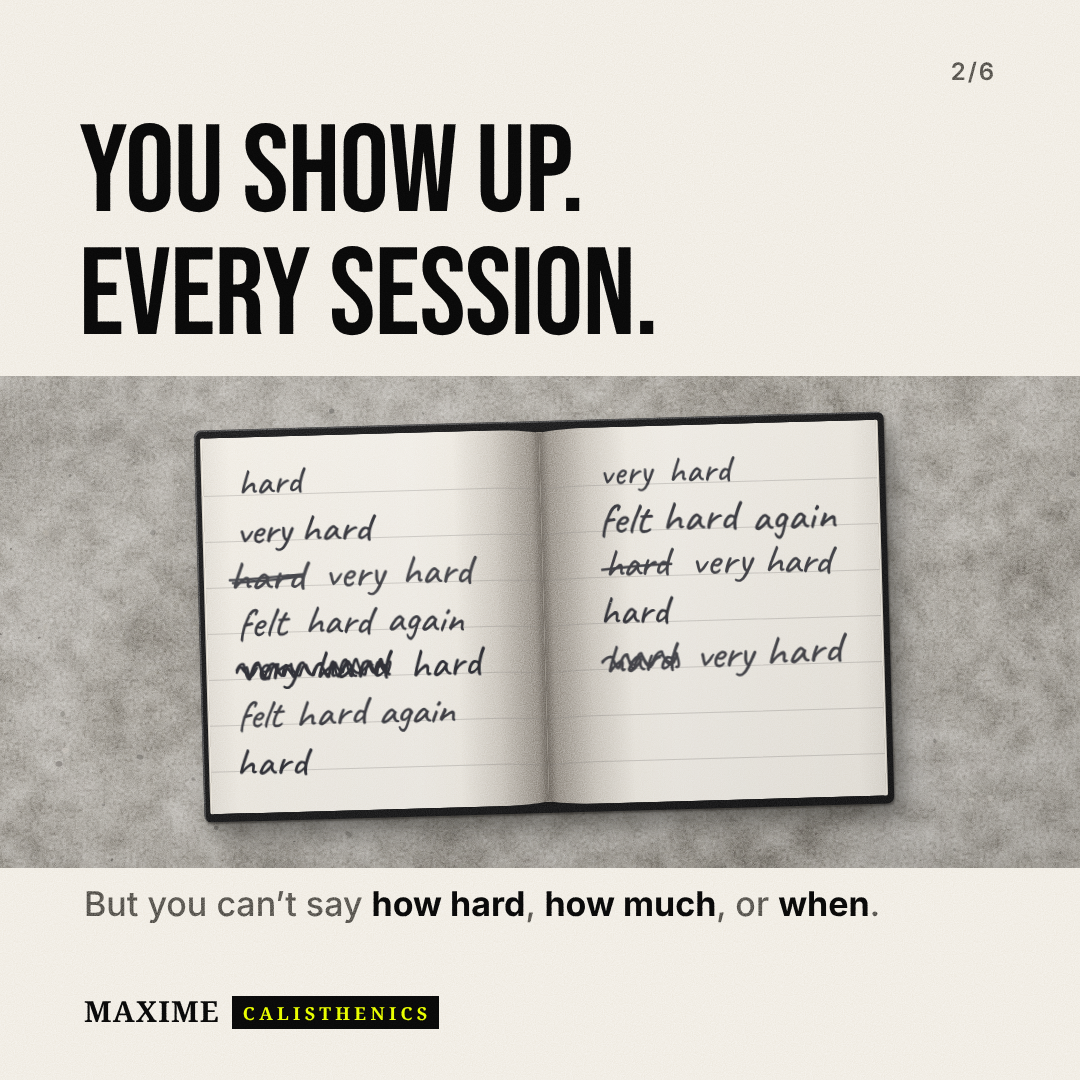
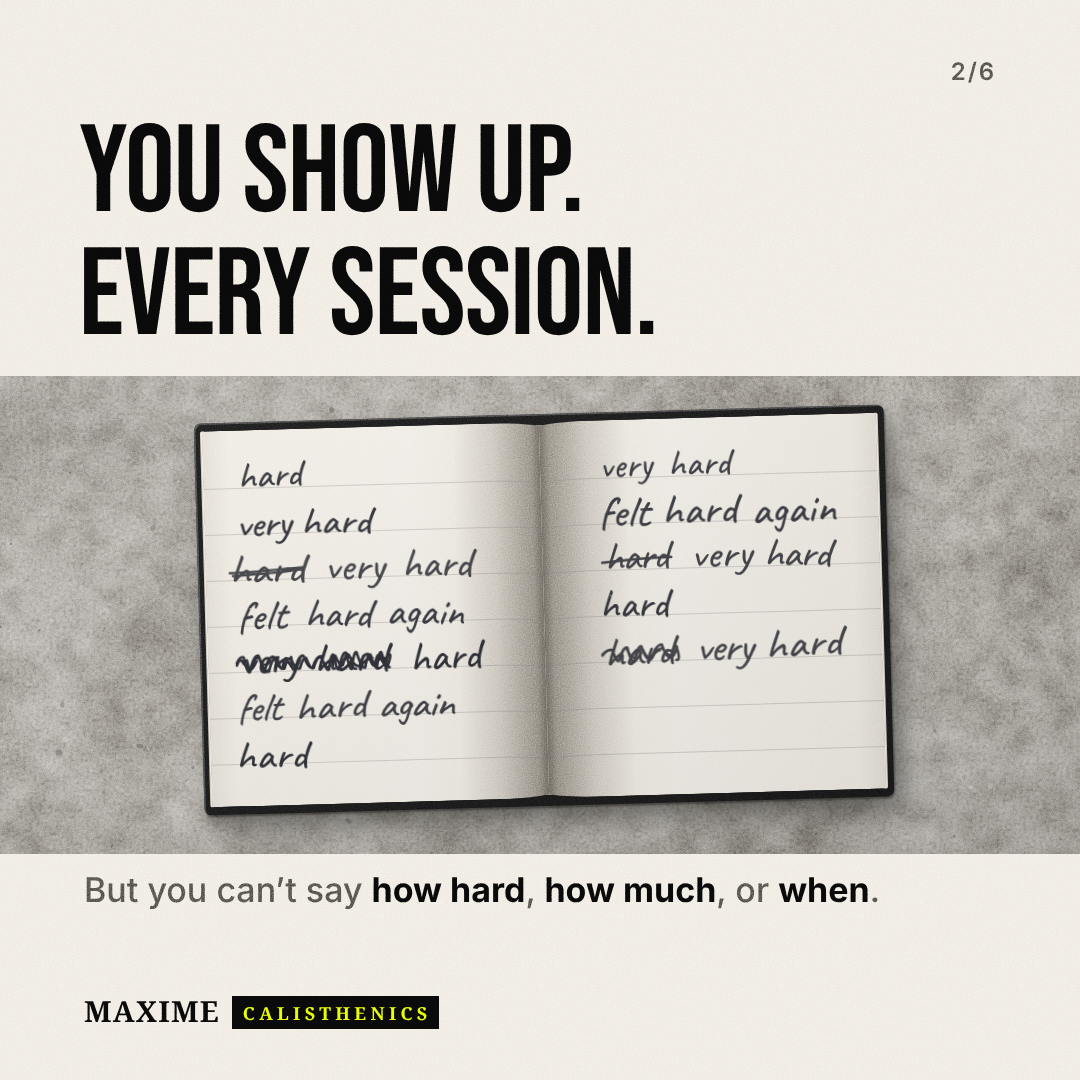
Carousel C: offer and series review fixes, deck C ad copy
Card 6: the struck 150$ is left out until its basis is confirmed (it read as a
former price that nothing in the repo supports); 59.99$ is the hero at 110 px;
the fan overlaps behind Volume without hiding the outer titles; larger checks;
FINALLY gets air before its tab; even spacing down to the wordmark.
Series: card 2's band now ends where card 3's does; card 5's ghost cover fades at
its inner edge instead of drawing a panel line; the unused Mark device is gone.
copy.md: accent devices as actually used, the pricing and third-line questions,
and primary text, card titles and link for deck C.

Claude-Session: https://claude.ai/code/session_01Nneob7TcmMdZxcPFgKJ9Kt

Changed region(s): [[0.0, 0.3667, 1.0, 0.8556], [0.55, 0.4278, 0.7944, 0.6417]]

diff --git a/motion-ad/video/src/carousel/Editorial.tsx b/motion-ad/video/src/carousel/Editorial.tsx
@@ -40,15 +40,6 @@ const small = (size = 28, color = E.ink, weight = 500): React.CSSProperties => (
   whiteSpace: 'nowrap',
 });
 
-// The single accent: a yellow marker stripe sitting behind the lower half of a word.
-// Acid yellow on bone has no contrast as type, so it is only ever used as a mark.
-const Mark: React.FC<{children: React.ReactNode}> = ({children}) => (
-  <span style={{position: 'relative', display: 'inline-block'}}>
-    <span style={{position: 'absolute', left: -6, right: -6, bottom: '0.02em', height: '0.36em', background: E.acid}} />
-    <span style={{position: 'relative'}}>{children}</span>
-  </span>
-);
-
 // Film grain over the whole card, so type, books, photo and ground share one print
 // texture. Mid-grey noise in overlay mode lightens as much as it darkens, so the page
 // still averages #F2EEE6.
@@ -563,7 +554,7 @@ const Notebook: React.FC<{cx: number; cy: number; rot: number}> = ({cx, cy, rot}
   </div>
 );
 
-const BAND = {y: 376, h: 492};
+const BAND = {y: 376, h: 478}; // same band as card 3's split photo
 const Mirror: React.FC<P> = (p) => (
   <Card
     {...p}
@@ -746,7 +737,7 @@ const Questions: React.FC<P> = (p) => {
 // 5 — Buyer voice (12 + 4 words, the brief's own template): the first 12 words of
 // Ilian's 5-star review, exactly as written and unbroken, set in phrases between
 // oversized acid quotation marks anchored to the type. The Intensity cover ghosts in at
-// 8% behind, a plain rectangle cut by the right edge, its lettering kept off the card.
+// 8% behind, cut by the right edge, its inner edge faded, its lettering kept off the card.
 // No stars, no avatar.
 const QUOTE = ['THESE E-BOOKS WERE', 'JUST THE PUSH I NEEDED', 'TO REEVALUATE', 'MY APPROACH'];
 const QV = {top: 340, size: 124, line: 124 * 0.88}; // quote block
@@ -756,7 +747,18 @@ const Voice: React.FC<P> = (p) => (
   <Card {...p}>
     {/* large enough that the series line runs off the top and the title off the bottom:
         only the outlined 01 and the image show, cut by the right edge */}
-    <Img src={staticFile('covers/intensity.webp')} style={{position: 'absolute', left: 560, top: -105, height: 1700, width: (1700 * 2) / 3, opacity: 0.08}} />
+    <Img
+      src={staticFile('covers/intensity.webp')}
+      style={{
+        position: 'absolute',
+        left: 560,
+        top: -105,
+        height: 1700,
+        width: (1700 * 2) / 3,
+        opacity: 0.08,
+        WebkitMaskImage: 'linear-gradient(to right, transparent, #000 220px)', // no hard panel edge
+      }}
+    />
     {/* opening mark on the left margin, its tail tucked behind the first letters */}
     <div
       style={{
@@ -800,16 +802,18 @@ const Voice: React.FC<P> = (p) => (
   </Card>
 );
 
-// 6 — Offer (15 words): the three books fanned in an arc with #2 a step forward, the
-// headline's FINALLY on the series' black tab, the price, two reassurances and the site.
+// 6 — Offer (14 words): the three books fanned in an arc, #2 in front overlapping the
+// other two, the headline's FINALLY on the series' black tab, the price as the hero,
+// two reassurances and the site. The 150$ reference value is left out until its basis
+// is confirmed (a struck price must be a real former price or the exact separate total).
 const FAN = [
-  {src: 'covers/intensity.webp', cx: 356, cy: 532, h: 250, ry: 16, rz: -8},
-  {src: 'covers/periodization.webp', cx: 724, cy: 532, h: 250, ry: -16, rz: 8},
-  {src: 'covers/volume.webp', cx: 540, cy: 518, h: 278, ry: 0, rz: 0}, // drawn last: in front
+  {src: 'covers/intensity.webp', cx: 368, cy: 530, h: 244, ry: 16, rz: -8},
+  {src: 'covers/periodization.webp', cx: 712, cy: 530, h: 244, ry: -16, rz: 8},
+  {src: 'covers/volume.webp', cx: 540, cy: 516, h: 270, ry: 0, rz: 0}, // drawn last: in front
 ];
 const CHECK = (
-  <svg width={26} height={26} viewBox="0 0 24 24" style={{display: 'block', flexShrink: 0}}>
-    <path d="M4 12.5 L9.5 18 L20 6.5" stroke={E.ink} strokeWidth={2} fill="none" strokeLinecap="round" strokeLinejoin="round" />
+  <svg width={30} height={30} viewBox="0 0 24 24" style={{display: 'block', flexShrink: 0}}>
+    <path d="M4 12.5 L9.5 18 L20 6.5" stroke={E.ink} strokeWidth={2.6} fill="none" strokeLinecap="round" strokeLinejoin="round" />
   </svg>
 );
 const Offer: React.FC<P> = (p) => (
@@ -824,23 +828,23 @@ const Offer: React.FC<P> = (p) => (
         sheen={false}
         hinge={false}
         paper={['#D2CABD', '#B5AD9F']}
-        filter="drop-shadow(0 14px 16px rgba(20,16,12,0.28))"
+        filter="drop-shadow(0 12px 12px rgba(20,16,12,0.24))"
       />
     ))}
   >
     <div style={{position: 'absolute', left: M - 5, top: 119}}>
       <div style={head(124)}>UNDERSTAND YOUR</div>
       <div style={{...head(124), marginTop: 14}}>
-        TRAINING. <Tab>FINALLY.</Tab>
+        TRAINING. <span style={{marginLeft: '0.08em'}}><Tab>FINALLY.</Tab></span>
       </div>
     </div>
-    <div style={{position: 'absolute', left: 0, width: S, top: 690, display: 'flex', justifyContent: 'center', alignItems: 'baseline', gap: 22}}>
-      <span style={head(84)}>THE 3-BOOK PACK — 59.99$</span>
-      <span style={{...small(30, E.muted, 600), textDecoration: 'line-through', textDecorationThickness: 2, textDecorationColor: E.ink}}>150$</span>
+    <div style={{position: 'absolute', left: 0, width: S, top: 690, display: 'flex', justifyContent: 'center', alignItems: 'baseline', gap: 18}}>
+      <span style={head(64)}>THE 3-BOOK PACK —</span>
+      <span style={head(110)}>59.99$</span>
     </div>
-    <div style={{position: 'absolute', left: 0, width: S, top: 786, display: 'flex', justifyContent: 'center', gap: 40}}>
+    <div style={{position: 'absolute', left: 0, width: S, top: 800, display: 'flex', justifyContent: 'center', gap: 40}}>
       {['Instant download', 'Private Discord included'].map((t) => (
-        <div key={t} style={{display: 'flex', alignItems: 'center', gap: 10, ...small(28, E.ink, 500)}}>
+        <div key={t} style={{display: 'flex', alignItems: 'center', gap: 10, ...small(32, E.ink, 500)}}>
           {CHECK}
           {t}
         </div>
@@ -850,10 +854,10 @@ const Offer: React.FC<P> = (p) => (
       style={{
         position: 'absolute',
         left: (S - 470) / 2,
-        top: 846,
+        top: 860,
         width: 470,
-        height: 72,
-        borderRadius: 36,
+        height: 70,
+        borderRadius: 35,
         background: E.ink,
         display: 'flex',
         alignItems: 'center',

diff --git a/carousel/copy.md b/carousel/copy.md
@@ -90,19 +90,19 @@ Bouton d'action : **Shop Now**.
 
 `C/01.png` à `C/06.png` : la même histoire en 6 cartes 1080×1080, avec la nouvelle direction artistique.
 
-- Fond os `#F2EEE6`, texte noir `#0A0A0A`, un seul accent jaune acide `#EAFF00` par carte : un surlignage sous un mot, ou le coup de pinceau de la carte 1. En texte sur fond clair, ce jaune serait illisible.
+- Fond os `#F2EEE6`, texte noir `#0A0A0A`, un seul accent jaune acide `#EAFF00` par carte, et seulement là où ton brief le demande : le coup de pinceau sous WITHOUT (carte 1), la languette noire de SMART (carte 3) et de FINALLY (carte 6), les guillemets (carte 5). Les cartes 2 et 4 n'en ont pas. Jamais de jaune en texte sur le fond clair : il y serait illisible.
 - Titres en Bebas Neue, en capitales et à l'approche serrée ; petits textes en Inter. Grain argentique fin sur toute la carte, réglé pour que le fond reste à `#F2EEE6` en moyenne.
 - Compteur en haut à droite (« 1/6 »), wordmark en bas à gauche : MAXIME en noir, CALISTHENICS en jaune sur une languette noire, tous deux en Noto Serif Bold, le caractère de ton logo. Pas de flèche de défilement : le brief exclut toute fausse interface.
 - 15 mots au plus par carte, wordmark et compteur non compris (16 sur la carte 5, selon son brief).
 
-| Carte | Texte | Mot surligné |
+| Carte | Texte | Accent jaune |
 |---|---|---|
 | 1 | DISCIPLINED… / BUT TRAINING WITHOUT UNDERSTANDING? + ta photo au front lever, annotée au crayon | WITHOUT (coup de pinceau) |
 | 2 | YOU SHOW UP. EVERY SESSION. / But you can’t say **how hard**, **how much**, or **when**. + carnet d'entraînement ouvert sur du béton | aucun (le brief n'en demande pas) |
 | 3 | DUMB & DISCIPLINED / ~~train hard. hope.~~ · SMART & DISCIPLINED / train hard. know why. + ta planche, deux fois | SMART (languette noire) |
 | 4 | EVERY SESSION STOPS BEING A GUESS. + HOW HARD? / HOW MUCH? / WHEN? au-dessus des 3 tomes | aucun (le brief n'en demande pas) |
 | 5 | « THESE E-BOOKS WERE JUST THE PUSH I NEEDED TO REEVALUATE MY APPROACH » / — Ilian, reader of Intensity | les guillemets |
-| 6 | UNDERSTAND YOUR TRAINING. FINALLY. / THE 3-BOOK PACK — 59.99$ (150$ barré) / ✓ Instant download ✓ Private Discord included / bouton maximecalisthenics.com | FINALLY. (languette noire) |
+| 6 | UNDERSTAND YOUR TRAINING. FINALLY. / THE 3-BOOK PACK — 59.99$ / ✓ Instant download ✓ Private Discord included / bouton maximecalisthenics.com | FINALLY. (languette noire) |
 
 Photos : seules tes images apparaissent, sans aucune retouche de l'athlète.
 
@@ -112,9 +112,39 @@ Photos : seules tes images apparaissent, sans aucune retouche de l'athlète.
 - Carte 4 : les trois couvertures telles que fournies (aucune teinte, aucun reflet, aucun pli de reliure ni grain par-dessus), en livres 3D debout, légèrement tournés, avec une ombre de contact sur le fond os. Les livres sont dessinés en relié pour montrer un pack de trois tomes : dans le texte principal de la pub, précise bien « 3 ebooks (PDF) » pour qu'aucun acheteur n'attende un livre papier.
 - Carte 5 : les 12 premiers mots de l'avis 5 étoiles d'Ilian, sans coupure ni changement (« These e-books were just the push I needed to reevaluate my approach and stop trying to move forward blindly. I've made great progress ever since!! »). Seule la casse change. La couverture d'Intensity apparaît derrière à 8 %, coupée par le bord droit et assez grande pour que ses inscriptions sortent de la carte : on n'y voit que le « 01 » et l'image. Ni étoiles ni photo de profil. La carte fait 16 mots (12 + 4), comme le prévoit ton brief : c'est la seule à dépasser 15.
 - Avant de diffuser la carte 5 : vérifie dans tes commandes qu'Ilian a bien acheté Intensity ou le pack (son avis dit « these e-books » au pluriel), garde une capture datée de son avis, et demande-lui son accord écrit pour utiliser son prénom et ses mots dans une pub. Sans cette vérification, « reader of Intensity » ne peut pas être affirmé.
-- Carte 6 : les trois couvertures telles que fournies, en éventail, le tome 2 un peu en avant.
-- Prix de la série C : 59.99$ le pack, 150$ barré comme valeur de référence. Les textes principaux A et B plus haut annoncent encore 44,99 $ (99,99 $ séparément) : aligne le texte de la pub sur le prix réel avant de diffuser. En France, un prix barré doit correspondre à un prix réellement pratiqué (le plus bas des 30 jours précédant la réduction) ou, s'il s'agit de la somme des tomes vendus séparément, à cette somme exacte.
+- Carte 6 : les trois couvertures telles que fournies, en éventail, le tome 2 plus grand et devant les deux autres.
+- Prix de la carte 6 : 59.99$ le pack. La valeur de 150$ de ton brief n'est pas sur la carte tant que sa base n'est pas confirmée. Un prix barré se lit comme un ancien prix : il doit correspondre au prix le plus bas pratiqué dans les 30 jours avant la réduction. Sinon, il faut l'afficher comme « 150$ vendus séparément », et seulement si c'est la somme exacte des trois tomes vendus aujourd'hui. Les textes A et B plus haut annoncent encore 44,99 $ (99,99 $ séparément), ce qui contredit les deux lectures. Ne diffuse pas A ou B en même temps que C sans les mettre au même prix.
+- Il manque la troisième ligne de réassurance de ton brief (seules deux sont données). L'ancienne pub annonçait une garantie satisfait ou remboursé de 14 jours. Si elle existe toujours, c'est la candidate naturelle, mais la carte passe alors à 17 mots.
 - La photo de la carte 1 ne fait que 600×700 px : elle est agrandie de 22 %. Une version en plus haute définition donnerait un rendu plus net.
+
+### Textes de la pub (série C)
+
+Ces textes ne reprennent que ce qui est sur les cartes et dans ce document. Les points marqués « à confirmer » restent en suspens tant que tu ne les as pas validés.
+
+Texte principal :
+
+```
+You show up every session. But can you say how hard, how much, or when?
+
+Static Strength is 3 ebooks (PDF) for planche and front lever: Intensity (how hard), Volume (how much), Periodization (when).
+
+The 3-book pack: 59.99$. Instant download, private Discord included.
+```
+
+Titres et descriptions des cartes (titre de 40 caractères au plus) :
+
+| Carte | Titre | Description |
+|---|---|---|
+| 1 | Disciplined, but training blind? | Planche & front lever |
+| 2 | Can you say how hard? | Your training log, honestly |
+| 3 | Same work. Different clarity. | Train hard. Know why. |
+| 4 | How hard. How much. When. | 3 ebooks, one method |
+| 5 | What readers say | A reader's words |
+| 6 | The 3-book pack: 59.99$ | Instant download (PDF) |
+
+- Lien : `https://maximecalisthenics.com/?utm_source=meta&utm_medium=paid_social&utm_campaign=static_strength_pack&utm_content=carousel_c`, sur toutes les cartes. Le bouton noir de la carte 6 n'est pas cliquable en soi : c'est le lien de la carte qui l'est.
+- Bouton d'action : Shop Now. Désactive « Afficher automatiquement les cartes les plus performantes en premier » : les cartes 4 et 6 répondent aux cartes 2 et 3.
+- À confirmer avant diffusion : le prix (59.99$, taxes comprises, dans la devise payée par ton audience), l'accord d'Ilian et ce qu'il a acheté (carte 5), et l'accord du spectateur qui filme (carte 3).
 
 Régénérer cette série seule : `DECKS=C node scripts/carousel.mjs` (depuis `motion-ad/video`). Le code est dans `motion-ad/video/src/carousel/Editorial.tsx`.
 
